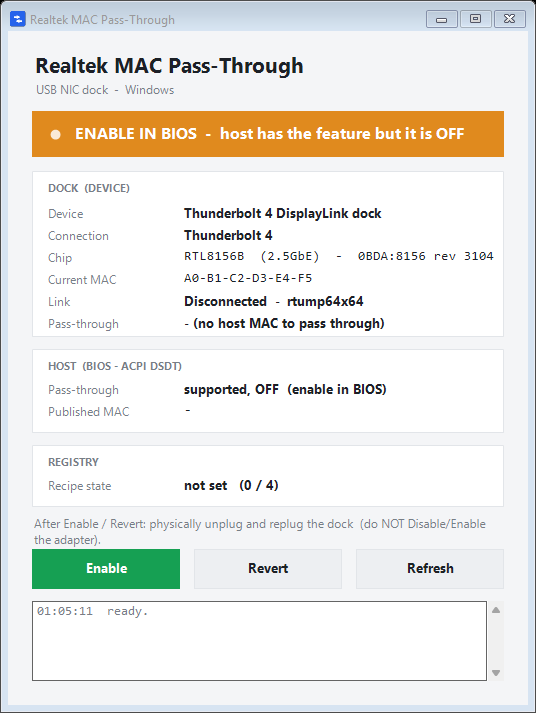
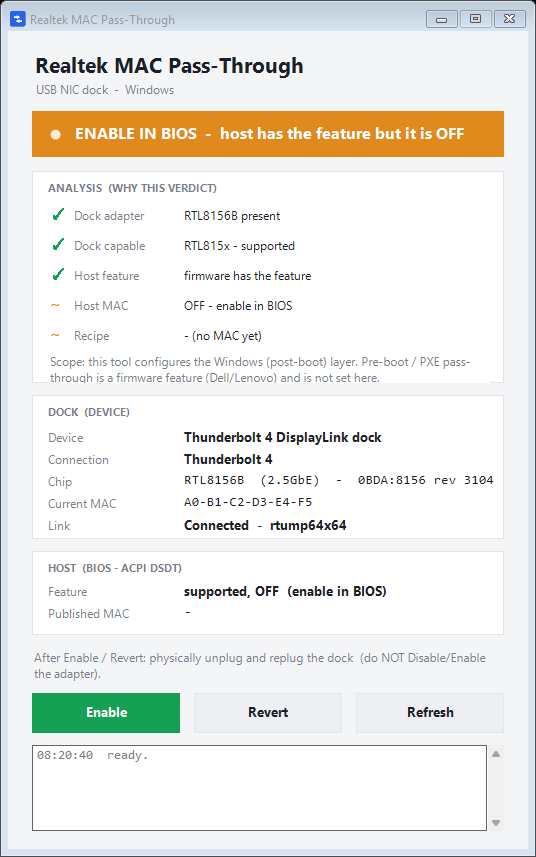
Add step-by-step Analysis checklist to the GUI
The window now leads with an "Analysis" card: the chain that produces the
verdict, each condition marked check / cross / tilde (dock adapter, dock
capable, host feature, host MAC, recipe), so the bottleneck side is obvious
at a glance. A scope line states the tool configures the Windows (post-boot)
layer; pre-boot / PXE pass-through is a firmware feature and is not set here.
CLI gains the same scope line; README and all screenshots updated.

diff --git a/README.md b/README.md
@@ -28,10 +28,12 @@ Two ways to use it — pick one. Both read everything from the system and are fu
 
 ### GUI  (recommended)
 In the **`gui/`** folder, run **`passthrough-GUI.bat`** (it elevates to Administrator). A small window
-identifies your dock as a **device** — read live from the system: what it is (e.g. *Thunderbolt 4
-DisplayLink dock*), how it is connected (**Thunderbolt** vs plain USB), the **chip + speed**
-(e.g. *RTL8156B · 2.5GbE*), its USB id, MAC and link state — alongside the pass-through status
-(host + dock, see below), the recipe state, and **Enable / Revert / Refresh** buttons.
+leads with an **Analysis checklist** — the step-by-step chain that produces the verdict, each condition
+marked ✓ / ✗ / ~ (dock adapter, dock capable, host feature, host MAC, recipe) so you can see *why* at a
+glance and which side is the bottleneck. Below it, the dock is identified as a **device** — read live
+from the system: what it is (e.g. *Thunderbolt 4 DisplayLink dock*), how it is connected (**Thunderbolt**
+vs plain USB), the **chip + speed** (e.g. *RTL8156B · 2.5GbE*), its USB id, MAC and link state — plus the
+host (BIOS) facts and **Enable / Revert / Refresh** buttons.
 
 ### CLI  (scripting / automation)
 In the **`cli/`** folder, as Administrator:
@@ -103,6 +105,7 @@ Full mechanism: [`docs/HOW-IT-WORKS.md`](docs/HOW-IT-WORKS.md).
 ## Scope & limitations
 - **Realtek USB NICs only.** Docks with ASIX / Aquantia / other chips use different drivers and are unaffected. The tool acts only on a confirmed Realtek USB adapter (USB vendor `0x0BDA`).
 - **The host must publish the MAC.** With BIOS pass-through *disabled* (no `_AUXMAC_` in DSDT) there is nothing to apply; the tool detects this and tells you. Hosts without this firmware feature would need a DSDT override (advanced; out of scope here).
+- **Windows (post-boot) layer only.** Pass-through has two independent layers: the host firmware can also apply the MAC *before* the OS (pre-boot / PXE), and the Realtek chip is accepted there only if it is a vendor-recognized variant (an eFuse pass-through bit or an OEM chip bin). This tool forces the **Windows** layer via the registry recipe, which works regardless of that hardware marker — but only after Windows loads. It does **not** affect pre-boot/PXE; that remains the firmware's own decision.
 - Verified on a Dell Latitude 5530 + WAVLINK Thunderbolt dock (Realtek RTL8156B), Realtek driver `rtu56cx22x64`. The keys are shared across Realtek's Windows drivers (`rtump*`, `rtu*cx*`).
 
 ## Host without the feature
